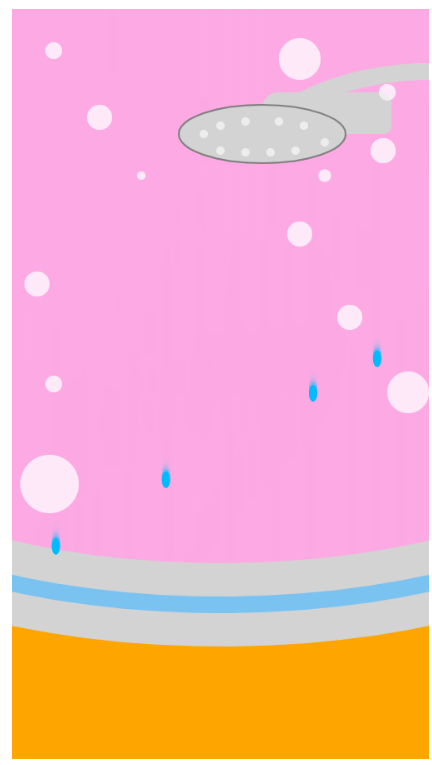
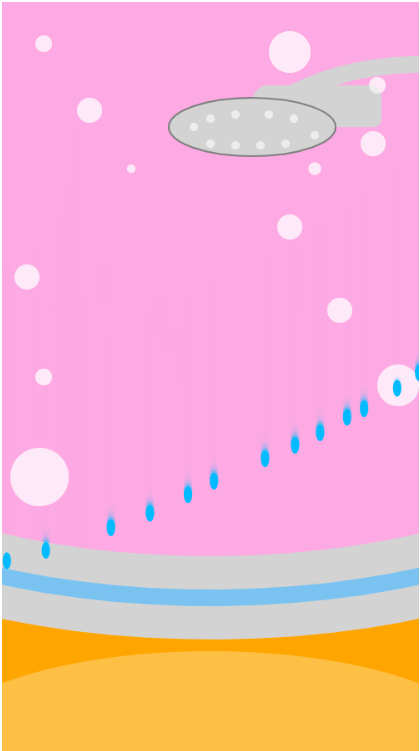
Added an updated photo and fixed the URL for the shower drawing

diff --git a/README.md b/README.md
@@ -29,7 +29,7 @@ Here is a link to my <a href="Journal.md">Journal</a>.
 <h5> The Shower </h5>
 <img src="Image/The Shower.png" > 
 
-<a href="https://razanelsayegh-sys.github.io/cart253/Prototype%2020%20Drawing%20canvas/>View this project online">View this project online</a>
+<a href="https://razanelsayegh-sys.github.io/cart253/Prototype%2020%20Drawing%20canvas/">View this project online</a>
 
 <a href="https://razanelsayegh-sys.github.io/cart253/Prototype 20 Drawing canvas/js/script.js">View the script of this project</a>
 
